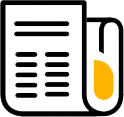
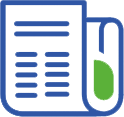
Updated testimonial section, recolored images to match design

diff --git a/public/styles/site/_main.less b/public/styles/site/_main.less
@@ -1,37 +1,35 @@
 .jumbotron#homepage {
     background: url("../images/main.png") transparent no-repeat;
     background-position: center bottom;
-    height: 500px;
-    padding-top: 94px;
+    padding: 100px 0;
     text-align: center;
     margin-bottom: 0px;
     .background-size(cover);
-    & > h2 {
+    & > .container > h2 {
         color: @blue;
-        font-size: 80px;
+        font-size: 70px;
         font-weight: 700;
-            @media (max-width:480px) {
-                    font-size: 40px;
-            } 
+        @media (max-width:480px) {
+            font-size: 40px;
+        } 
     }
-    & > p {
+    & > .container > p {
         font-weight: 400;
         color: @blue;
         font-size: 22px;
         text-transform: initial;
     }
-    & > .btn-pls-w{
+    & > .container > .btn-pls-w {
         border: 0;
-        border-radius: inherit;
+        border-radius: 3px;
         background-color: @orange;
-        font-weight: 800;
+        font-weight: 600;
         color: white;
-        padding: 20px;
+        margin-top: 30px;
+        padding: 15px 40px;
         text-align: center;
-        font-size: 23px;
+        font-size: 25px;
     }
-
-
 }
  
 
@@ -156,74 +154,6 @@ h1.service:after {
     color: @other-blue;
 }
 
-
-.testimonials{
-    height: 466px;
-    margin-bottom: 0px;
-    overflow: hidden;   
-    background-position: center center;
-    background-repeat: no-repeat;
-    background-image: url(../images/background-testimonials.png);
-        .background-size(cover);
-        h1{
-            color: @blue;
-            font-weight: 700;
-            text-align: center;
-            font-font: 32px;
-            margin-bottom: 40px;
-                @media (max-width:480px) {
-                    font-font: 22px;
-                    margin-bottom: 20px;
-                }
-        }
-        .carousel-inner{
-            .item.active{
-
-                img.picture{
-                height: 481px;
-                }
-        
-                .testimonial{
-                    position: relative;
-                    top: 110px;
-                        @media (max-width:480px) {
-                            top: 50px;
-                        }   
-                        .col-lg-4{
-                            img{
-                                height: 75px;
-                                width: 75px;
-                                border-radius: 50px;
-                                float: left;
-                            }
-                            h3{
-                                float: left;            
-                                color: @blue;
-                                font-weight: 700;
-                                margin-bottom:0px;
-                            }
-                            span{
-                                font-size: 15px;
-                                float: left;
-                                clear: both;
-                                color: @blue;
-                                font-weight: inherit;
-                                margin-bottom:20px;
-                                    @media (max-width:480px) {
-                                        clear: inherit;
-                                    }   
-                            }
-                            p{
-                              float: left;
-                              color: @blue;
-                              font-weight: 700;
-                              font-style: italic;
-                            }
-                        }
-                }
-            }
-        }
-}
 .our-service{
     .col-lg-4{
         .row{
@@ -233,30 +163,30 @@ h1.service:after {
                     font-family: @font-family-sans-serif;
                     font-size: 16px;
                     margin-top: 26px;
+                    color: #484848;
                 }
             }
             .col-lg-12{
                 p{
                     font-family: @font-family-sans-serif;
                     margin-top: 15px;
-                    font-size: 11px;
-                    color:#abb0b5;
-                    line-height: 1.7;
+                    font-size: 14px;
+                    color:@text-color;
+                    line-height: 1.9;
                 }
             }
         }
     }
 }
 .btn-pls-blue,{
-    border: 0;
-    border-radius: inherit;
-    background-color: @blue;
-    font-weight: 800;
+    border-radius: 3px;
+    background-color: transparent;
+    font-weight: 500;
     color: @blue;
+    border: 3px solid;
     padding: 10px;
     text-align:center;
-    font-size: 23px;
-    color: white;
+    font-size: 20px;
         @media (max-width:480px) {
             float: none;                    
             width: 100%;
@@ -265,14 +195,18 @@ h1.service:after {
         
 }
 .btn-pls-white,{
-    border: 0;
-    border-radius: inherit;
+    border: 3px solid @orange;
+    border-radius: 3px;
     background-color: @orange;
-    font-weight: 800;
+    font-weight: 500;
     color: white;
     padding: 10px;
     text-align: center;
-    font-size: 23px;
+    font-size: 20px;
+    &:hover, &:active {
+        border-color: darken(@orange, 10%);
+        background: darken(@orange, 10%);
+    }
         @media (max-width:480px) {
             float: none;                    
             width: 100%;
@@ -310,4 +244,46 @@ h1.service:after {
 .p1{
     padding: 0;
     margin: 0;
+}
+.jumbotron#testimonials {
+    background-image: url(../images/background-testimonials.png);
+    .background-size(cover);
+}
+.jumbotron > .container.testimonial {
+    color: @blue;
+    padding: 60px 0;
+    h1 {
+        color: @blue;
+        font-size: 40px;
+        font-weight: 600;
+        margin-bottom: 70px;
+        text-align: center;
+    }
+    .col-lg-4 {
+        h3 {
+            font-weight: 700;
+        }
+        small {
+            font-size: 14px;
+            position: relative;
+            top: -10px;
+        }
+        div.info {
+            margin-bottom: 20px;
+        }
+        div.quote {
+            font-size: 16px;
+            font-style: italic;
+            font-weight: 500;
+        }
+        .portrait {
+            border-radius: 50%;
+            overflow: hidden;
+            height: 80px;
+            width: 80px;
+            & > img {
+                width: 100%;
+            }
+        }
+    }
 }
